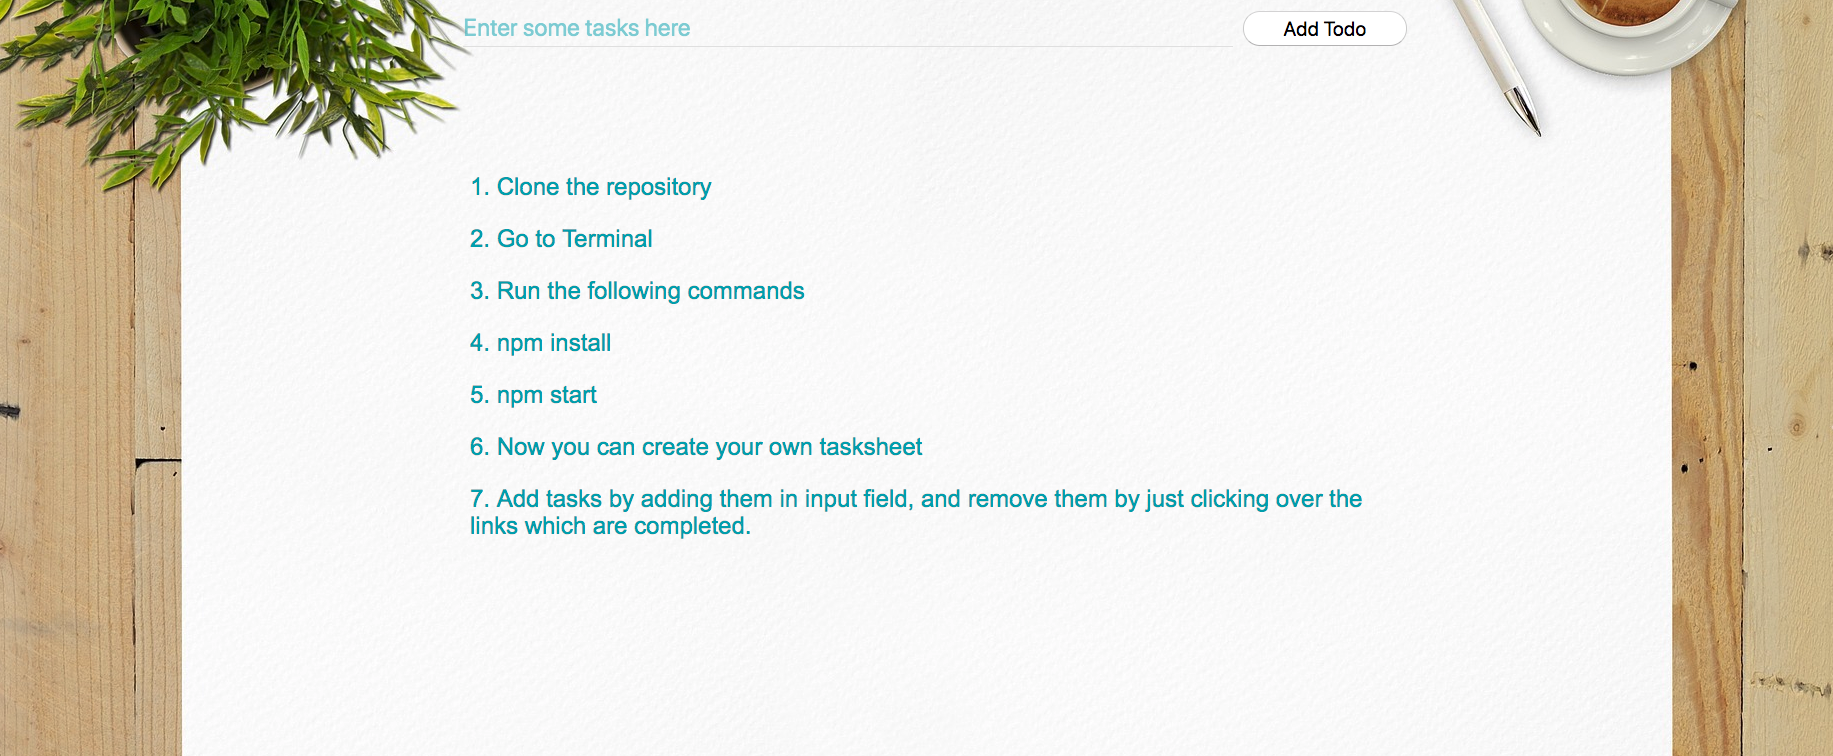
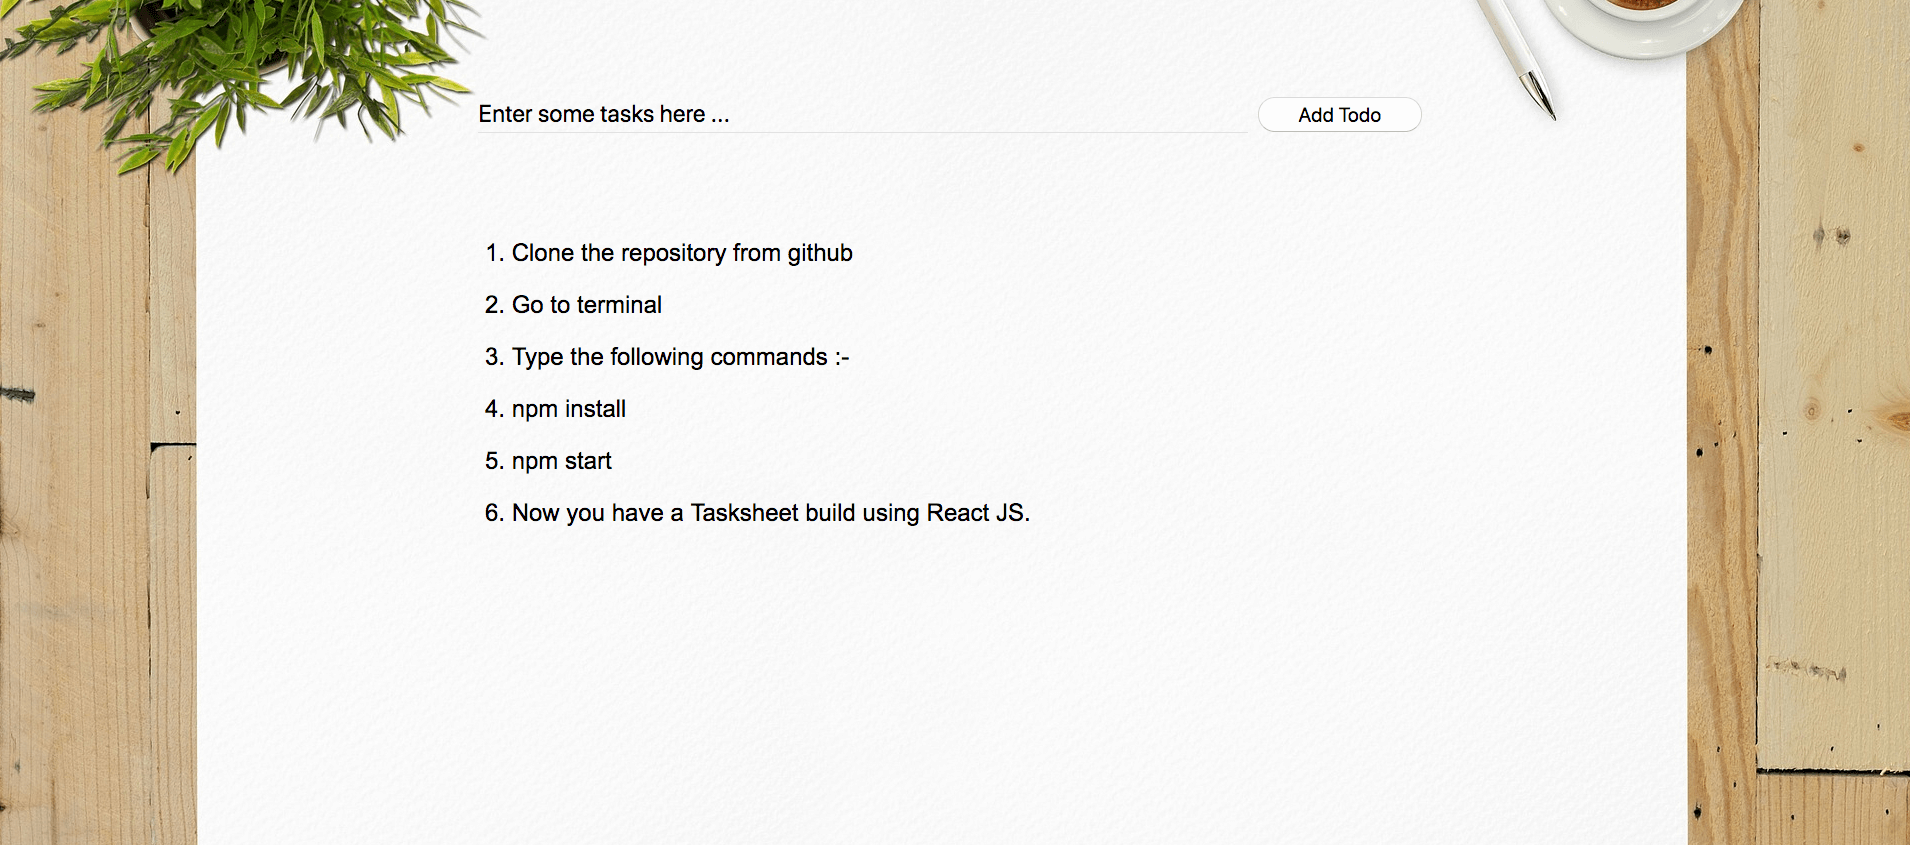
Add files via upload

diff --git a/src/index.css b/src/index.css
@@ -18,7 +18,7 @@ body {
   border-bottom: 1px solid #e3e3e3;
   font-size: 24px;
   background-color: transparent;
-  color: #00a8b5;
+  color: #000;
   outline: none;
   width: 40%;
 }
@@ -33,12 +33,11 @@ body {
 }
 
 ::placeholder {
-  color: #00a8b5;
-  opacity: 0.5;
+  color: #000;
 }
 
 .btn:hover {
-  background-color: #00a8b5;
+  background-color: #000;
   color: #fff;
 }
 
@@ -51,7 +50,7 @@ body {
   list-style: none;
   padding: 10px;
   margin: 5px auto;
-  color: #00a8b5;
+  color: #000;
   line-height: 27px;
   text-align: left;
   font-weight: 100;
@@ -59,10 +58,16 @@ body {
 }
 
 .header {
-  padding: 20px 0;
+  padding-top: 100px;
 }
 
 @media screen and (max-width: 768px) {
+  body {
+    background-size: cover;
+  }
+  .listing {
+    width: 100%;
+  }
   .main {
     padding: 0;
   }

diff --git a/src/TaskSheet.js b/src/TaskSheet.js
@@ -43,7 +43,7 @@ export default class TaskSheet extends React.Component{
         return <div className="main">
           <div className="header">
             <input className="text" value={data}
-            placeholder="Enter some tasks here"
+            placeholder="Enter some tasks here ..."
             onChange={this.update}/>
             <button className="btn" onClick={this.add}>Add Todo</button>
             </div>
